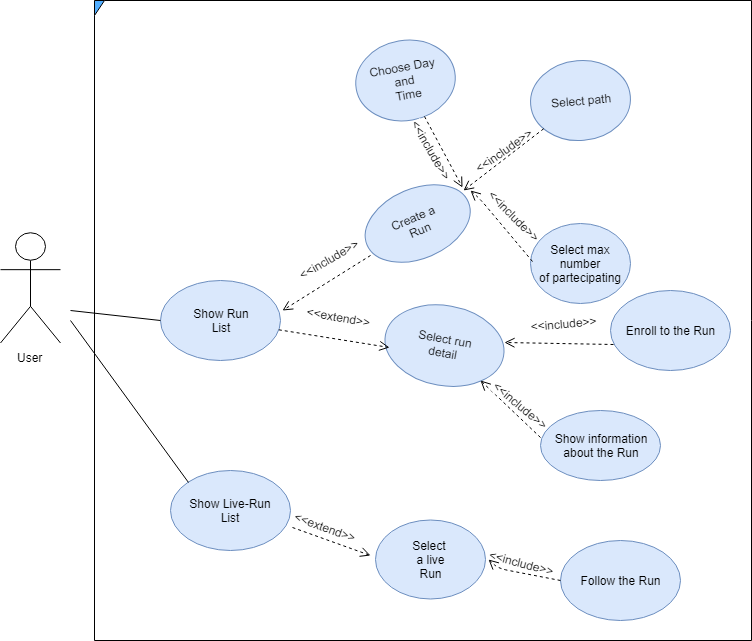
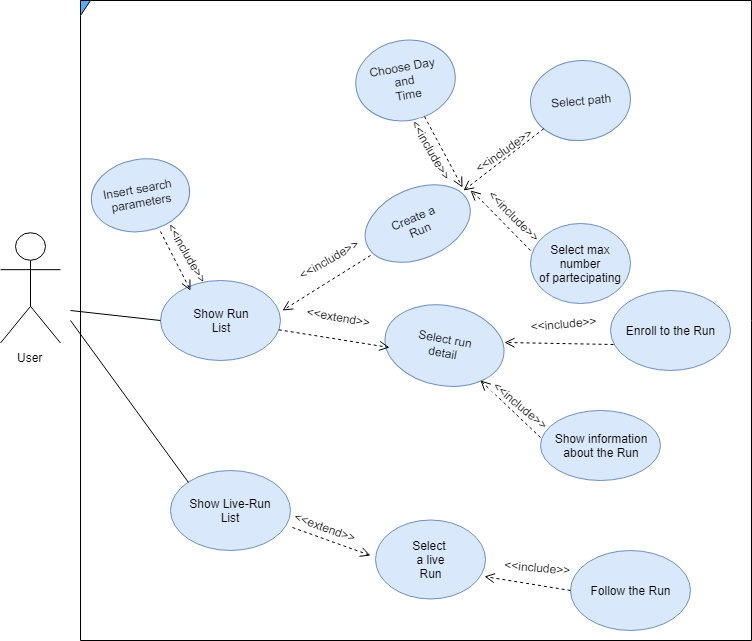
aggiunte e modifiche varie

diff --git a/rasdL/OverallDescription/ProductFunctions.tex b/rasdL/OverallDescription/ProductFunctions.tex
@@ -1,10 +1,11 @@
 \section{Product Functions}
 
 Here we list the main requirements, concerning each goal. \\ \\
+
 \textbf{Data4Help:} \\
 \textbf{G1)The user can be recognized by providing their cf and password} \\ \\
 R1)The user have to specify its data at registration time: first name, surname,his fiscal code, age, city, wheight and height\\ \\
-\textbf{G2)A third party can be recognized by providing his username and password} \\ \\
+\textbf{G2)A third party can be recognized by providing its username and password} \\ \\
 R1)The third party have to specify its data at registration time: company name, VAT number, address\\ \\
 \textbf{G3)Allow a registered user to manage the accesses to its personal data} \\ \\
 R1)The user receives in real time requests on its data from the third parties \\ \\
@@ -52,7 +53,6 @@ R3) The system retrieves from its database the right emergency number for the ge
 
 R4) The system calls the emergency number, communicates the vital parameters and the actual location of the user, and asks the dispatch of an ambulance \\ \\
 
-(D1)the threshold value will be provided by a medical authority) ?? \\ \\
 \textbf{G2)Allow the user to create a list of contacts to be alerted  in case of emergency} \\ \\
 
 R1)The system sends a message to all the numbers on the specified list in case of emergency \\ \\
@@ -64,15 +64,11 @@ R3) If there is not a customize text message, the system will send a default mes
 R1)the system asks the organizer to select a starting and finishing point for the run \\ \\
 R2)The organizer can add intermediate points that will be part of the path \\ \\
 R3)The system relies on an external service to provide the interaction with a map \\ \\
-
 R4)The system calculates the shortest path that includes all the points selected by the organizer \\ \\   
-
 R5)The system asks the organizer to specify the maximum number of partecipants \\ \\
-
 R6)After being created, the run is added to the list of the scheduled runs \\ \\
 \textbf{G 2) Registered users can visualize the List of planned runs} \\ \\
 R1) the system shows only future runs \\ \\ 
-
 R2) A manual search can be performed by the user specifying the location range and the minimum/maximum distance \\ \\ 
 R3)The system provides the list of runs ordered by time and user’s location \\ \\
 R4) The system provides a list of live runs \\ \\
@@ -80,11 +76,9 @@ R4) The system provides a list of live runs \\ \\
 R1) the system allow to enroll to a run only if there are available entries \\ \\
 R2)the system sends an email to the user’s email address with the information related to the run and the ticket (bib number) \\ \\
 R3)the user is notified through email updates if there are changes until the day of the run \\ \\
-\textbf{G 4)Registered users can visualize the list of live runs}
-
-R1)The list of live runs shows only the list of runs that are taking place in that moment
-R2)The user can decide to follow a live run from the list, directly from their device
-
+\textbf{G 4)Registered users can visualize the list of live runs} \\ \\
+R1)The list of live runs shows only the list of runs that are taking place in that moment \\ \\
+R2)The user can decide to follow a live run from the list, directly from their device \\ \\
 \textbf{G 5) Registered users can visualize on a map the positions of the participants in a live run} \\ \\	
 R1) The positions on the map are updated in real time \\ \\
 R2) The system shows the number of online visitors \\

diff --git a/rasdL/SpecificRequirements/UseCases/GroupResearch.tex b/rasdL/SpecificRequirements/UseCases/GroupResearch.tex
@@ -1,9 +1,5 @@
-  \subsection{Login System}
-Every user who wants to use the application must be registered to the System.
+  \subsection{Group Research}
 
-
-
-After that, the user has to log in into the System in order to be recognized and use the application.
 
 \begin{table}[H]
 	\centering
@@ -11,11 +7,9 @@ After that, the user has to log in into the System in order to be recognized and
     \begin{tabular}{|p{3.5cm}|p{10.3cm}|}
     
     \hline
-    \textbf{\large{Actors}}  			& \tabitem Visitor 									\\
-    				 					& \tabitem Registered User							\\
-                     					& \tabitem Logged-In User 							\\
+    \textbf{\large{Actors}}  			& \tabitem Third Party 																\\
     \hline
-    \textbf{\large{Goals}} 				& \ref{goal:user0};\ref{goal:user00}\\
+    \textbf{\large{Goals}} 				& \ref{goal:user0};\\
     
     \hline
     \textbf{\large{Enter Condition}}	& There is no enter condition for this Use Case		\\
@@ -23,12 +17,7 @@ After that, the user has to log in into the System in order to be recognized and
     \hline
     \textbf{\large{Events Flow}}		& \begin{enumerate}[leftmargin=0.5cm]
                                           	\item The \emph{Visitor}  accesses to the web site or application log in page
-                                            \item The \emph{Visitor} inserts all the mandatory informations (personal data, password, email)
-                                            \item The System registers the user and sends back a confirmation email to the provided address
-                                            \item The \emph{Visitor} user becomes a \emph{Registered user} inserting their fiscal code (if is a normal user) or the unique username (if is a third part), and the password in the log in page   
-                                            \item The \emph{Registered user} now can access the \emph{TrackMe} services through the log in page
-                                            
-                                            \item After the insertion of the identifier and password, the user becomes a \emph{Logged in user}
+                                           
                                           \end{enumerate}
     										\\
     \hline
@@ -49,4 +38,3 @@ After that, the user has to log in into the System in order to be recognized and
     \includegraphics[scale=0.4]{rasdL/Pictures/login1.png}
     
 \end{figure}
-

diff --git a/rasdL/Introduction/Purpose.tex b/rasdL/Introduction/Purpose.tex
@@ -1,11 +1,13 @@
 \section{Purpose}
-The purpose of this document is to provide a complete description of the systems Data4Help, AutomatedSos, and Track4run, through the analysis of the problems, the listing and presentation of the goals, constrainsts, phenomena, domain assumptions and models with the aim of provide to the stackholders a complete overview of the project.
+The purpose of this document is to provide a complete description of the systems Data4Help, AutomatedSos, and Track4run, through the analysis of the problems, the listing and presentation of the goals, constrainsts, phenomena, domain assumptions and models with the aim of provide to the stakeholders a complete overview of the project.
+\newline \newline
+G1] The User can access to all the three services (Data4Help, AutomatedSos and Track4Run) with a single account on the TrackMe System \newline
 
-Goals of Data4Help:
+\textbf{Goals of Data4Help:}
 \begin{goalList}
 \begin{enumerate}[label={[}G 1.\arabic*{]}]
 \item \label{goal:user0}The user can be recognized by providing his cf and password
-\item \label{goal:user00}A third part can be recognized by providing his username and password
+\item \label{goal:user00}A third party can be recognized by providing his username and password
 
     \item \label{goal:user1} Allow a registered user to manage the accesses to his personal data
     \item \label{goal:user2}Allow a registered user to visualize his actual health parameters and position
@@ -22,17 +24,19 @@ Goals of Data4Help:
 
 
 \end{enumerate}
-Goals of AutomatedSos:
+\textbf{Goals of AutomatedSos}:
 \begin{enumerate}[label={[}G 2.\arabic*{]}]
 
 \item \label{goal:sos1}Communicate to SSN the health status of individual in critical situations
 \item \label{goal:sos2}
-The system will interface with SSN IT insfrastructure in order to guarantee an optimal support
-\item \label{goal:sos3}The system finds the nearest emergency ward based on the user location
+The system will interface with SSN IT infrastructure in order to guarantee an optimal support
+\item \label{goal:sos3}The System finds the nearest emergency ward based on the user location
 
 \end{enumerate}
+\newpage
 
-Goals of Track4Run:
+\textbf{Goals of Track4Run}:
+
 \begin{enumerate}[label={[}G 3.\arabic*{]}]
 
 \item \label{goal:run1}

diff --git a/rasdL/SpecificRequirements/UseCases/Emergency.tex b/rasdL/SpecificRequirements/UseCases/Emergency.tex
@@ -1,9 +1,5 @@
-  \subsection{Login System}
-Every user who wants to use the application must be registered to the System.
+  \subsection{Emergency}
 
-
-
-After that, the user has to log in into the System in order to be recognized and use the application.
 
 \begin{table}[H]
 	\centering
@@ -11,9 +7,8 @@ After that, the user has to log in into the System in order to be recognized and
     \begin{tabular}{|p{3.5cm}|p{10.3cm}|}
     
     \hline
-    \textbf{\large{Actors}}  			& \tabitem Visitor 									\\
-    				 					& \tabitem Registered User							\\
-                     					& \tabitem Logged-In User 							\\
+    \textbf{\large{Actors}}  			& User 									\\
+    				 					
     \hline
     \textbf{\large{Goals}} 				& \ref{goal:user0};\ref{goal:user00}\\
     
@@ -36,7 +31,7 @@ After that, the user has to log in into the System in order to be recognized and
     
     \hline
     \textbf{\large{Exception}} 			& The \emph{Visitor} cannot register himself because is already registered.\newline The \emph{Registered} user                                         is not able to sign in the System because the login data are wrong or if he did not confirmed  the confirmation email. \newline
-    										If one of these problems occur, the system both on the web site and on the application shows a message error to the user, which is invited to re-insert their credentials or confirm the registration email.\\
+    								
     
     \hline
     
@@ -49,4 +44,3 @@ After that, the user has to log in into the System in order to be recognized and
     \includegraphics[scale=0.4]{rasdL/Pictures/login1.png}
     
 \end{figure}
-

diff --git a/rasdL/Introduction/Definition.tex b/rasdL/Introduction/Definition.tex
@@ -6,6 +6,17 @@ In this part of the RASD Document there are some definitions, acronyms and abbre
 
 \item \textbf{User:}When referring to \emph{The User}, we refer to a logged- in user, since the software is usable only by a recognized user. 
 
+\item \textbf{Visitor:}When referring to \emph{The Visitor}, we refer to a user not yet registered to the TrackMe system
+
+\item \textbf{Registered User:} A User registered to the TrackMe System. To use the System and performs any action, all actors must be registered. 
+
+\item\textbf{Logged-in User:} A registered user who is logged in the TrackMe System
+
+\item\textbf{Organizator:} Is a logged-in  user who uses the Track4Run system, and decides to create a new run
+
+\item\textbf{TrackMe:}
+is the name of our System, that  includes our three main services: Data4Help, AutomatedSos and Track4Run.
+
 	
 	\end{itemize}
 \subsection{Acronyms}

diff --git a/rasdL/OverallDescription/User.tex b/rasdL/OverallDescription/User.tex
@@ -2,7 +2,7 @@
 The main users of Data4Help are third parties interested for various purposes in collecting and analyzing of user's data.
 Customers are users of all kinds, who want to keep track of their data in time and take advantage of the service derivative from the analysis of these.
 \\ \\The users of SosAutomated are people who decide to rely to this service essentially for a security factor, to be assisted in case of emergency.
-\\ \\The user of Track4Run are sports lovers who concerned in planning, partecipating and follow live runs. 
+\\ \\The user of Track4Run are sports lovers who concerned in planning, partecipating and follow live runs streaming on Internet, directly from their devices everywhere. 
  
 
 

diff --git a/rasdL/SpecificRequirements/FunctionalRequirements.tex b/rasdL/SpecificRequirements/FunctionalRequirements.tex
@@ -1,8 +1,12 @@
 \section{Functional Requirements: Use Case Diagram and Scenarios description}
 \input{SpecificRequirements/UseCases/login.tex}
 \input{SpecificRequirements/UseCases/userRequest.tex}
-\input{rasdL/SpecificRequirements/UseCases/readPastData.tex}
+\input{SpecificRequirements/UseCases/GroupResearch.tex}
+\input{SpecificRequirements/UseCases/readPastData.tex}
+\input{rasdL/SpecificRequirements/UseCases/Emergency.tex}
 \input{SpecificRequirements/UseCases/createRun.tex}
 \input{SpecificRequirements/UseCases/visualizeListRuns.tex}
 \input{SpecificRequirements/UseCases/enrollToRun.tex}
+
+
 \input{rasdL/SpecificRequirements/UseCases/usecase3.tex}

diff --git a/rasdL/OverallDescription/ProductPerspective.tex b/rasdL/OverallDescription/ProductPerspective.tex
@@ -1,11 +1,11 @@
 \section{Product Perspective}
 1)Immagine con shared phenomena
 
-2)This is the uml model of  the whole system, based on a class diagram:
+2)This is the UML model of  the whole system, based on a class diagram:
 \begin{figure}[H]
     \centering
     \includegraphics[scale=0.4]{Pictures/UML.png}
-    \caption{State chart  \emph{Data4Help} System}
+  
 \end{figure}
 3)State charts:
 
